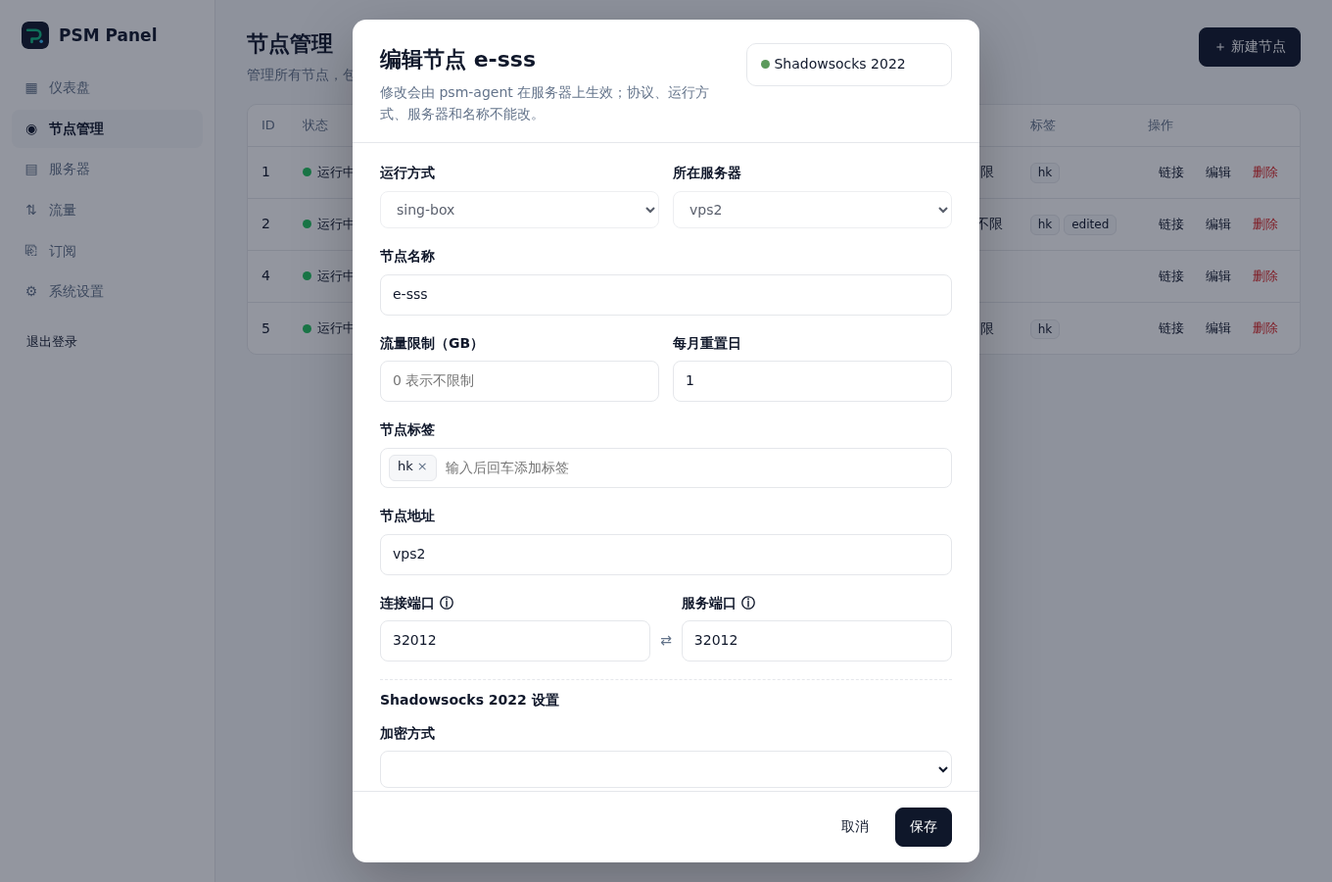
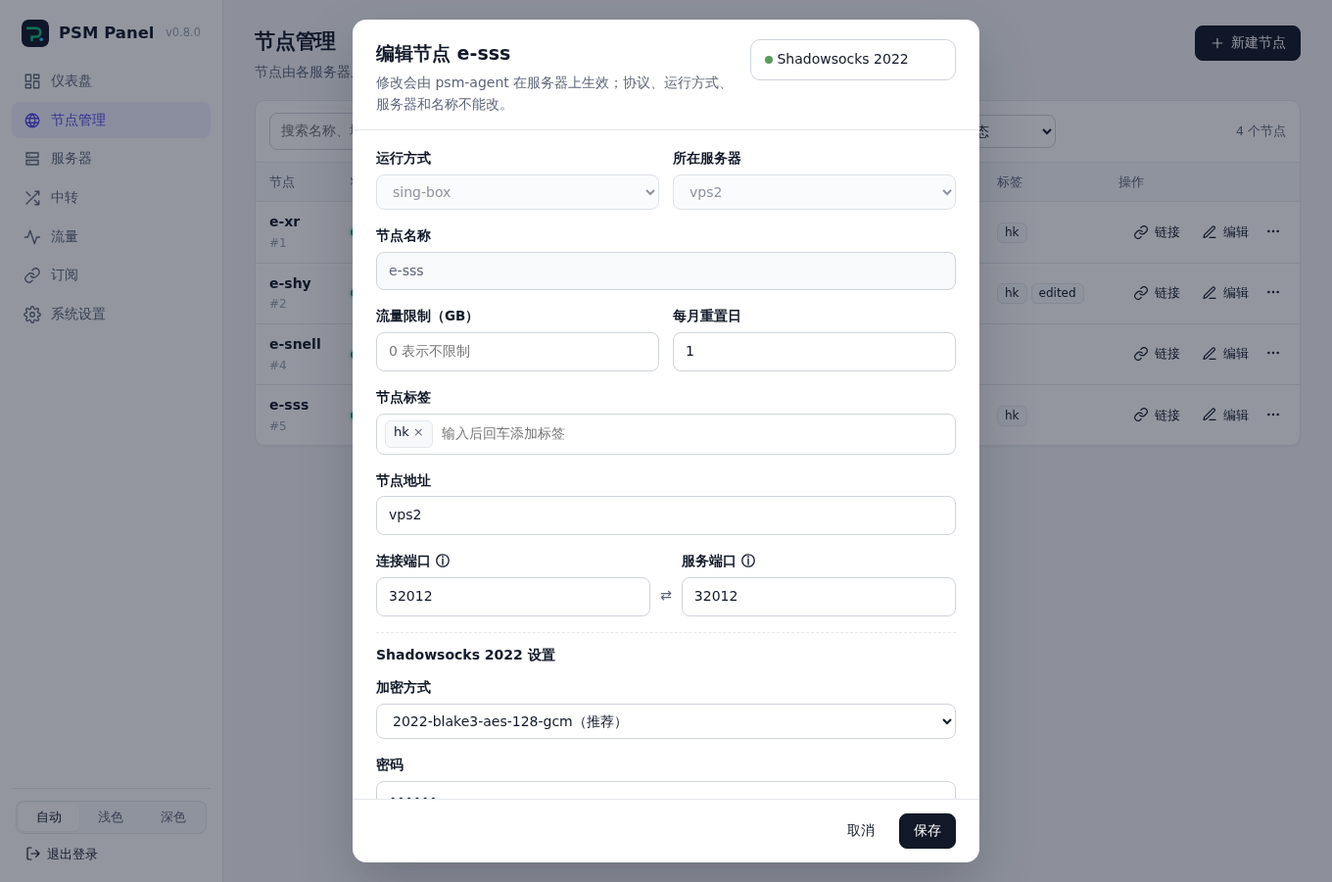
The relays chapter, and panel 0.8.0's security, settings and pages
A chapter on relays: forwards and tunnels, realm and gost, several landing
hosts and how they are shared, limits, batches, the list and its charts,
what a server leaving takes with it, and what a tunnel cannot carry.

Security and settings follow the panel: sign-out ends every session, where
the key that encrypts D1 lives and how to move it into TOKEN_KEY, https for
the panel address, masked secrets, the mapping engine's key staying in the
panel, install commands shown again instead of minted anew. The servers,
nodes, traffic, subscriptions, FAQ and update pages describe the new pages
(the row menus, search and filters, the network a server syncs from, UTC
days against server-local resets, Snell only in Surge), and the screenshots
are the new pages'.

diff --git a/docs/guide/relays.md b/docs/guide/relays.md
@@ -1,0 +1,82 @@
+# 中转
+
+![中转](/images/relays.png)
+
+中转让客户端先连一台**入口服务器**，再由它把流量送到**落地**（运行节点的机器，或任意地址）。用途：线路更好的机器做入口、多个落地共用一个入口、一个落地挂掉时自动换到另一个，或者把入口到下一跳这一段加密。
+
+## 两种方式
+
+| | 直接转发 | 隧道 |
+| --- | --- | --- |
+| 路径 | 入口 → 落地 | 入口 → **出口** → 落地 |
+| 入口到下一跳 | 原样的流量；realm 可以再包一层 TLS（只包 TCP） | gost 的 relay 协议，走 TLS 或 WebSocket，带密码；UDP 也在隧道里 |
+| 转发程序 | realm（默认）或 gost | gost |
+| 适合 | 入口到落地的线路本身没问题 | 入口到出口这一段要加密、伪装，或者要走 CDN |
+
+- **realm** 轻量；多个落地时可以轮询或按客户端 IP 分配。
+- **gost** 还能**主备切换**（总用第一个能连上的落地）和**随机**分配，每 15 秒检查一次每个落地，连不上的暂时不用；能**限速**；隧道只能用 gost。
+
+程序第一次用到时 psm-agent 会在服务器上装好。除了手填端口的 realm 一对一转发，其余的（gost、隧道、多个落地、限额、到期、自动分配端口）都要服务器上的 psm-agent 是 0.11.0 以上；旧的会提示先在服务器页升级。
+
+## 新建中转
+
+**中转** → **新建中转**：
+
+1. **入口服务器**和**名称**（字母、数字、`.` `_` `-`）。建好后这两项不能改。
+2. **转发方式**：直接转发或隧道（建好后不能改）。直接转发再选 realm 或 gost；选了主备切换、随机或限速时自动换成 gost。
+3. **隧道**：选**出口服务器**，出口地址会填上它最近连面板用的 IP（有更合适的内网地址或域名就改掉）；**隧道端口**留空自动分配；**传输**选 TLS、TLS 多路复用、WebSocket 或 WebSocket 多路复用（WebSocket 可以放在 CDN 后面），可以填伪装域名（SNI）和 WebSocket 的 Host、路径。
+4. **落地**：地址和端口，可以**再加一个落地**（最多 16 个），也可以把一串 `地址:端口` 直接粘贴进地址框。落地是面板里的服务器时在右边选上，两端就能对应起来（地址仍然以填的为准）。多个落地时选怎么分：轮询、按客户端 IP、随机、主备；gost 的健康检查在落地只开了 UDP 时要关掉。
+5. **入口**：监听端口留空就从这台服务器的**中转端口段**里挑一个没被占用的（默认 20000-60000，在服务器页 ⋯ → 备注和中转端口段里改）。基于 QUIC 的协议（Hysteria2、TUIC）要勾 **同时转发 UDP**。realm 直接转发还可以对入口到落地这一跳加 TLS。
+6. **限制**（都可以不填）：限速（Mbit/s，上下行各自，gost）、每月流量限额和重置日（按服务器的时区，0 表示不重置）、到期时间。超过限额或到期后入口拒绝新连接，列表上标**超额暂停**或**已到期**；提高限额、到重置日或改到期时间后恢复。
+
+表单边填边检查（和面板后台用的是同一套规则），提交前就能看到哪里不对。
+
+建好后：
+
+- 直接转发：几秒内在入口服务器上生效，状态从"下发中"变成"运行中"。
+- 隧道：先在**出口**上建好，面板拿到出口的证书后再在入口上建，**入口只认这一张证书**（证书指纹钉住），不需要域名，也不怕中间人。状态先显示"等待出口"。
+- 服务器还没接入时，对话框给出安装命令，接入后自动生效。
+
+## 批量添加
+
+**批量添加** 用同样的设置一次建多条，每行一条：
+
+```
+# 名称 端口(或 auto) 落地地址:端口[,落地地址:端口…]
+hk-jp  20001 203.0.113.9:443
+hk-us  auto  198.51.100.7:8443,198.51.100.8:8443
+```
+
+最多 100 行，`#` 之后是注释。每一行都检查通过才会创建；有问题的行按行号列出，一条都不建。
+
+## 列表
+
+每条中转一行：
+
+| 列 | 说明 |
+| --- | --- |
+| 中转 | 名称、方式（转发 / 隧道）、转发程序 |
+| 状态 | 入口的状态；隧道还有**出口**的状态。失败时列出原因 |
+| 入口 | 入口服务器和监听端口（**自动** 表示端口是分配的）、TCP / UDP、限速 |
+| 落地 | 直接转发：落地地址（多个时显示个数和分配方式）；隧道：出口服务器、隧道端口和传输，再到落地 |
+| 延迟 / 丢包 | 入口到下一跳最近一次的往返延迟和丢包（颜色越红越差）；隧道还有出口到落地这一跳 |
+| 流量 | 这条中转搬运的流量；设了限额时还有本月用量条；到期时间 |
+
+点一行展开：延迟 / 抖动、丢包和流量曲线（1 小时、6 小时、24 小时、7 天），每个落地的健康状况，以及这条中转的全部设置。psm-agent 每分钟测一次，面板保留 7 天；曲线不论时间范围都画成约 240 个点。延迟用 TCP 连接测量而不是 ping（ICMP 在这类网络上常被过滤，会报出不存在的丢包），落地完全不通时显示 100% 丢包而不是编一个延迟。
+
+搜索框按名称、端口、落地地址过滤；还可以按服务器（入口或出口是它都算）、方式和状态（"有问题"＝失败、暂停或有丢包）筛选。
+
+## 修改和删除
+
+**编辑** 可以改端口、落地、分配方式、健康检查、隧道的出口地址 / 端口 / 传输 / SNI / WebSocket、UDP、TLS、限速、限额、重置日和到期时间；直接转发还可以在 realm 和 gost 之间切换（端口不变）。名称、入口、出口和转发方式不能改——要改就删掉重建。隧道改了出口那边的设置时，面板先改出口，再改入口。
+
+**删除**（在 ⋯ 里）会让服务器上的规则一起删除，隧道则两端都删；只收回面板自己在防火墙上开的端口。服务器离线时会停在"删除中"，再点一次 **强制移除** 只从面板抹掉。
+
+从面板移除一台服务器时，它上面的中转一起删除；它是某条隧道的**出口**时，另一端（入口）上的规则也会删除，不会留下一个转发到空处的入口。
+
+## 注意
+
+- **隧道只承载"客户端先说话"的协议**。所有代理协议都是这样（VLESS、SS2022、Trojan、Hysteria2……），可以放心用；SSH、SMTP、FTP、VNC 这类连上后由服务器先发数据的协议过不了隧道（会一直等），要用直接转发。
+- **出口不是开放代理**：它只转发到自己的落地，入口想让它连别处也不行；入口和出口之间还有一个面板生成的密码。
+- 云服务商的**安全组**要自己放行入口的监听端口（隧道还有出口的隧道端口）；服务器上的防火墙 PSM 会自动放行。
+- 在服务器上也能看和改：`psm relay list`、`psm relay show <名称>`、`psm relay probe`，见 [PSM 文档 · 中转](https://psm-docs.pages.dev/features/relay)。在服务器上改过的规则，下次在面板上编辑时会被面板的设置覆盖。

diff --git a/docs/guide/security.md b/docs/guide/security.md
@@ -2,21 +2,32 @@
 
 ## 登录
 
-- 管理员密码来自 Worker 机密 `ADMIN_PASSWORD`。面板第一次读到它时，会把**加盐的 PBKDF2 哈希**存进 D1——不是明文，也不是能离线快速爆破的单轮摘要——这样重新部署丢了机密也不会被锁在门外。机密还在时以机密为准（恒定时间比较摘要），机密没了则用库里的记录校验。
-- 登录后得到一个 HMAC 签名的会话 Cookie：HttpOnly、SameSite=Strict，HTTPS 下带 Secure，7 天有效。签名密钥由 `TOKEN_KEY` 和当前的密码记录派生，不依赖明文密码（否则机密丢失后就无从派生）；修改密码即让所有会话失效。
-- 同一地址 15 分钟内失败 10 次后，暂停这个地址的登录。
+- 管理员密码来自 Worker 机密 `ADMIN_PASSWORD`（至少 8 位；短了不生效，登录页会直说）。面板第一次读到它时，会把**加盐的 PBKDF2 哈希**存进 D1——不是明文，也不是能离线快速爆破的单轮摘要——这样重新部署丢了机密也不会被锁在门外。机密还在时以机密为准（恒定时间比较摘要），机密没了则用库里的记录校验。
+- 登录后得到一个签名的会话 Cookie：HttpOnly、SameSite=Strict，HTTPS 下带 Secure，7 天有效。签名密钥由 `TOKEN_KEY` 经 HKDF 派生出单独的一把（加密数据的密钥从不直接用来签名），并以当前的密码记录为盐：修改密码即让所有会话失效。
+- **退出登录会让所有设备上的登录一起失效**：Cookie 里带着一个会话代数，退出时它加一，之前签发的 Cookie（包括被人复制走的）都不再有效。
+- 同一地址 15 分钟内失败 10 次后，暂停这个地址的登录；IPv6 按 /64 计（一台机器通常有整个 /64，换地址绕不过去）。
+- 会改动数据的请求必须来自面板自己的页面（浏览器的 `Sec-Fetch-Site` / `Origin`），别的网站借你的登录状态发请求会被拒绝；SameSite=Strict 之外的第二道锁。
 - 需要更强的保护时，可以在面板前面加 Cloudflare Access，放行 `/api/agent/*` 和 `/sub/*`（服务器和订阅客户端不会登录）。
+
+## 页面
+
+- 页面带 Content-Security-Policy（只运行面板自己的脚本，不允许被嵌进别的网站）、`X-Content-Type-Options: nosniff`、`Referrer-Policy: no-referrer`；接口的回答一律不缓存。
+- 订阅地址、节点链接、安装命令里的令牌默认遮住中间一段，点 👁 才显示，复制不需要先显示——截图、共享屏幕时不会顺带泄露。
 
 ## 服务器
 
-- psm-agent 不监听任何端口，只主动用 HTTPS 连接面板。
-- 安装命令里的令牌一次性、24 小时有效；接入后换成这台服务器自己的 agent 令牌，面板只存它的 SHA-256。
-- psm-agent 只执行白名单校验过的 `psm` 命令：内核、协议、节点名、端口、密钥等逐项校验，参数以数组传递，从不经过 shell。面板无法让服务器执行 PSM 命令行做不到的事。
-- psm-agent 下载时用发布页的 SHA256SUMS 校验。
+- psm-agent 不监听任何端口，只主动用 HTTPS 连接面板。面板地址必须是 `https://`（本机和内网地址的测试面板除外）。
+- 安装命令里的令牌一次性、24 小时有效；同一台服务器再看安装命令还是同一条（加密保存，D1 里没有明文），不会越点越多；怀疑泄露时在服务器页 **重新生成**，旧的立即失效。接入后换成这台服务器自己的 agent 令牌，面板只存它的 SHA-256。
+- psm-agent 只执行白名单校验过的 `psm` 命令：内核、协议、节点名、端口、密钥、中转的地址和端口等逐项校验，参数以数组传递，从不经过 shell。面板无法让服务器执行 PSM 命令行做不到的事。
+- 同一个 agent 令牌一分钟内同步远超 psm-agent 正常频率时，面板让它放慢（429）。
+- psm-agent 下载时用发布页的 SHA256SUMS 校验（校验的是完整性：发布页本身被篡改防不住，没有另外的签名）。
+- 自动选择 REALITY 伪装目标时，**面板自己查网络测绘引擎**，API Key 不会发给服务器；服务器只拿到候选网站去做 TLS 检查。
 
 ## 数据
 
-- 节点的协议参数（密码、密钥）、客户端链接、下发的任务、订阅令牌、服务器的诊断报告，在 D1 里都用 AES-GCM 加密保存。
+- 节点的协议参数（密码、密钥）、客户端链接、下发的任务、订阅令牌、安装命令的令牌、中转隧道的密码、服务器的诊断报告，在 D1 里都用 AES-GCM 加密保存。
 - agent 令牌、加入令牌、订阅令牌的查找都用哈希；数据库里没有明文令牌。
+- **加密密钥放在哪**：一键部署时面板自己生成密钥并存在 D1 里——和它加密的数据在一起，拿到数据库导出就能解开。系统设置里能看到密钥的位置，并按步骤把它挪进 Cloudflare 机密 `TOKEN_KEY`，再删掉 D1 里的副本，见 [系统设置 · 数据加密密钥](./settings#数据加密密钥)。
+- 旧数据会自动清理：完成的任务保留 14 天，中转测量 7 天，每日流量 400 天，操作记录 180 天。
 - Worker 默认开启 Workers Logs（Cloudflare 控制台里只有你自己能看），请求日志会记下访问的地址，订阅地址里的令牌也在其中。不希望这样时，把 `wrangler.jsonc` 里的 `observability.enabled` 改成 `false`。订阅地址泄露时在面板上重置即可。
-- 仓库里没有任何密钥；密钥只在你自己 Cloudflare 账号的 Worker 机密里。
+- 仓库里没有任何密钥；密钥只在你自己 Cloudflare 账号的 Worker 机密里（或按上面说的，暂时在 D1 里）。

diff --git a/docs/guide/settings.md b/docs/guide/settings.md
@@ -4,19 +4,39 @@
 
 ## 面板地址
 
-服务器安装命令和订阅地址里写的面板地址。绑定了自己的域名后填在这里（见 [绑定自己的域名](./domain)）；留空则使用当前访问面板的地址。
+服务器安装命令和订阅地址里写的面板地址。绑定了自己的域名后填在这里（见 [绑定自己的域名](./domain)）；留空则使用当前访问面板的地址。必须是 `https://`——节点的密钥和 agent 的令牌经它传输；`http://` 只接受本机或内网地址（测试用的面板）。
+
+## 数据加密密钥
+
+节点的密码、链接、订阅地址等在 D1 里用这把密钥加密。它可能在三个地方，页面上标着：
+
+| 标记 | 含义 |
+| --- | --- |
+| 只在机密里 | 密钥是 Cloudflare 机密 `TOKEN_KEY`，数据库里没有。应该是这样。 |
+| 保存在数据库里 | 一键部署时面板自己生成、存进了 D1：和它加密的数据放在一起，谁拿到数据库导出谁就能解开。建议按下面的步骤挪走。 |
+| 机密里也有了 | `TOKEN_KEY` 已经和数据库里的一致，可以删掉数据库里的副本。 |
+| 机密和数据不一致 | `TOKEN_KEY` 不是写入数据时用的那把：之前保存的节点、订阅解不开。把它改回数据库里的这把，或者删掉这个机密。 |
+
+把密钥挪进机密：
+
+1. 在这里输入管理员密码，点 **查看密钥**（这次查看会记进操作记录）。
+2. Cloudflare 控制台 → 这个 Worker → 设置 → 变量和机密 → 添加**机密** `TOKEN_KEY`，值就是这把密钥，一字不差。
+3. 部署生效后回到这里，标记变成"机密里也有了"，点 **删除数据库里的副本**（要输入 `TOKEN_KEY` 确认）。
+
+之后这个机密**不能删也不能改**：没有它，面板里的节点、订阅都读不出来。
 
 ## 网络测绘引擎
 
-新建 REALITY 节点时"自动选择伪装目标"用的引擎和 API Key：Netlas、Quake（360）、ZoomEye 或 FOFA。Key 加密存放，页面上不再显示；只在查询时随任务发给那台服务器，服务器用完即弃，不写入磁盘。Netlas 有免费额度：在 app.netlas.io 注册后，从个人资料页复制 API Key。见 [节点 · 自动选择伪装目标](./nodes#自动选择伪装目标reality)。
+新建 REALITY 节点时"自动选择伪装目标"用的引擎和 API Key：Netlas、Quake（360）、ZoomEye 或 FOFA。Key 加密存放，页面上不再显示；**面板自己用它查询，不会发给服务器**——服务器只收到查到的候选网站，去做 TLS 握手检查。Netlas 有免费额度：在 app.netlas.io 注册后，从个人资料页复制 API Key。见 [节点 · 自动选择伪装目标](./nodes#自动选择伪装目标reality)。
+
+## 登录
+
+登录保持 7 天。**退出登录**（左下角，或这里的 **退出所有设备**）会让所有设备上的登录一起失效；修改 `ADMIN_PASSWORD` 也一样。管理员密码在 Cloudflare 控制台修改 Worker **机密** `ADMIN_PASSWORD`（不要用变量，变量每次部署都会被清掉）。面板第一次读到机密时会把它的加盐哈希存进 D1，所以重新部署即使机密没了也仍能登录。
 
 ## 运行信息
 
-- **面板版本**
-- **服务器同步间隔**（Worker 变量 `SYNC_INTERVAL`）
-- **数据加密密钥**：来自 Worker 机密 `TOKEN_KEY`，或者面板自动生成（存在 D1）
-- **管理员密码**：在 Cloudflare 控制台修改 Worker **机密** `ADMIN_PASSWORD`（不要用变量，变量每次部署都会被清掉），所有已登录的会话随即失效。面板第一次读到机密时会把它的加盐哈希存进 D1，所以重新部署即使机密没了也仍能登录
+面板版本、它期望的 psm-agent 版本、服务器同步间隔（Worker 变量 `SYNC_INTERVAL`）和源代码地址。左下角可以切换浅色、深色或跟随系统的外观。
 
 ## 操作记录
 
-最近 100 条操作：登录（包括失败的尝试和来源地址）、添加 / 移除 / 接入服务器、诊断、新建 / 修改 / 删除节点、重置流量、订阅的增删改和重置、设置修改。
+按时间倒序，每次 30 条，**加载更多** 往前翻；可以按登录、服务器、节点、中转、订阅、设置、模板筛选。记录的有：登录（包括失败的尝试和来源地址）和退出、服务器的添加 / 移除 / 接入 / 诊断 / 升级、重新生成安装命令、节点和中转的增删改、重置流量、订阅和模板的增删改、设置修改、查看加密密钥。操作记录保留 180 天。

diff --git a/docs/guide/nodes.md b/docs/guide/nodes.md
@@ -4,7 +4,7 @@
 
 ## 新建节点
 
-**节点管理** → **＋ 新建节点**。对话框从右上角选协议开始，然后是运行方式、所在服务器、节点名称、流量限制、每月重置日、标签、节点地址、连接端口 ⇄ 服务端口，最后是这个协议自己的设置。
+**节点管理** → **新建节点**。对话框从右上角选协议开始，然后是运行方式、所在服务器、节点名称、流量限制、每月重置日、标签、节点地址、连接端口 ⇄ 服务端口，最后是这个协议自己的设置。
 
 - **节点地址**：客户端连接用的域名或 IP，会写进客户端链接和订阅。
 - **服务端口** 是节点在服务器上监听的端口；**连接端口** 是客户端连接的端口，两者通常相同（端口转发时才不同）。
@@ -57,7 +57,7 @@ Xray、sing-box、mihomo 运行的节点可以在"出口分流"里选：
 
 ## 自动选择伪装目标（REALITY）
 
-先在 **系统设置** 里填好网络测绘引擎（Netlas、Quake、ZoomEye 或 FOFA）的 API Key。新建 REALITY 节点、选好已接入的服务器后，点 **自动选择伪装目标**：那台服务器用引擎查同一个 ASN（同一张网）里有证书的网站，逐个做 TLS 握手检查（TLS 1.3、X25519、h2），列出可用的伪装域名、目标和延迟，点 **使用** 填入。API Key 只在查询时发给那台服务器，不保存在服务器上。
+先在 **系统设置** 里填好网络测绘引擎（Netlas、Quake、ZoomEye 或 FOFA）的 API Key。新建 REALITY 节点、选好已接入的服务器后，点 **自动选择伪装目标**：面板用引擎查那台服务器所在 ASN（同一张网，Cloudflare 从它的同步请求里知道）里有证书的网站，再让服务器逐个做 TLS 握手检查（TLS 1.3、X25519、h2），列出可用的伪装域名、目标和延迟，点 **使用** 填入。**API Key 不离开面板**，服务器只拿到候选网站。需要服务器的 psm-agent 是 0.11.0 以上。
 
 ## 防火墙
 
@@ -65,9 +65,13 @@ Xray、sing-box、mihomo 运行的节点可以在"出口分流"里选：
 
 云服务商的**安全组**（阿里云、腾讯云、AWS、Oracle 等在控制台里设置的那层）在服务器外面，PSM 改不了：用了安全组的话，要在控制台放行节点端口。
 
+## 列表
+
+节点列表可以按名称、地址、端口、标签搜索，按服务器、协议、状态（包括"超额暂停"）筛选，节点多时分页。每行有 **链接**、**编辑** 和 ⋯ 菜单（重置流量、删除）。状态是"失败"时原因写在状态下面。
+
 ## 修改节点
 
-在节点列表点 **编辑**。可以改地址、端口、流量上限、重置日、标签和协议设置；协议、运行方式、服务器和名称不能改（要改就新建一个）。
+在节点列表点 **编辑**（会先读出这个节点的设置）。可以改地址、端口、流量上限、重置日、标签和协议设置；协议、运行方式、服务器和名称不能改（要改就新建一个）。
 
 ![编辑节点](/images/edit.png)
 
@@ -77,10 +81,10 @@ Xray、sing-box、mihomo 运行的节点可以在"出口分流"里选：
 
 ## 删除节点
 
-点 **删除**。运行中的节点先由 psm-agent 从服务器上删除，再从面板上消失；独立安装的节点会卸载 snell-server / ss-rust。
+⋯ → **删除**，确认后执行。运行中的节点先由 psm-agent 从服务器上删除，再从面板上消失；独立安装的节点会卸载 snell-server / ss-rust。
 
 删除要交给那台服务器执行，所以服务器离线时节点会停在**删除中**，等它回来就自动完成。如果这台机器再也回不来了，按钮会变成 **强制移除**，再点一次就把这条记录从面板上抹掉——这只是面板侧的清理，机器如果还在，上面的节点要自己用 `psm node delete` 处理。
 
 ## 链接
 
-点 **链接** 复制节点的客户端链接（Snell 是 Surge 配置行）。要把多个节点给客户端，用 [订阅](./subscriptions)。
+点 **链接** 打开节点的客户端链接（Snell 是 Surge 配置行）。链接里有节点的密码，所以中间一段默认遮住：点 👁 显示，点复制按钮直接复制（不必先显示）。要把多个节点给客户端，用 [订阅](./subscriptions)。

diff --git a/docs/guide/subscriptions.md b/docs/guide/subscriptions.md
@@ -27,7 +27,7 @@
 | Quantumult X | `?format=quanx` | Quantumult X |
 | Loon | `?format=loon` | Loon |
 
-除了"通用"，其余格式都是一份完整的客户端配置，由**订阅模板**加上节点生成。每个客户端只会拿到它支持的协议：Surge 没有 VLESS；Quantumult X 没有 Hysteria2、TUIC、Snell；Loon 没有 TUIC、Snell；Stash 没有 AnyTLS。
+除了"通用"，其余格式都是一份完整的客户端配置，由**订阅模板**加上节点生成。每个客户端只会拿到它支持的协议：Surge 没有 VLESS；Quantumult X 没有 Hysteria2、TUIC、Snell；Loon 没有 TUIC、Snell；Stash 没有 AnyTLS。**Snell 节点只出现在 Surge 订阅里**：它没有分享链接，其他客户端也不支持它，所以通用、Clash、sing-box 等格式里看不到 Snell 是正常的。
 
 - TLS 协议的节点（Hysteria2、TUIC、AnyTLS、VLESS + TLS、Trojan、VMess）按服务器导出的完整参数写出。自签证书的节点带着证书指纹，客户端校验这一张证书：通用格式的链接里是 `pcs` / `pinSHA256`（v2rayN 等 Xray 内核的客户端靠它连接自签节点），Clash 里是 `fingerprint`，sing-box 里是 `certificate_public_key_sha256`，Stash 是 `server-cert-fingerprint`，Surge 是 `server-cert-fingerprint-sha256`，Quantumult X 和 Loon 是 `tls-cert-sha256`。
 - Clash / mihomo 的内置模板不把节点写进配置，而是用 proxy-provider 引用这个订阅的 `?format=provider`——面板把每个节点写成完整的 mihomo 节点（不是分享链接：mihomo 从链接导入时读不到自签 VMess、TUIC 的证书，也不认 HTTPUpgrade）。节点只有这一个来源，面板里增删节点后客户端最多一小时自己同步，不必重新导入订阅。代价是首次启动时如果拉不到订阅（断网、面板不可达），配置里就没有节点。
@@ -50,6 +50,10 @@
 删除模板后，用它的订阅自动改回内置模板。
 - 响应带 `subscription-userinfo`，客户端能显示已用流量（所有节点都设了上限时也显示总量）。
 
+## 地址和令牌
+
+订阅地址里的令牌就是访问它的钥匙，所以页面上默认遮住中间一段：点 👁 显示，点复制按钮直接复制（不必先显示）。卡片右上角显示客户端最近一次来更新是什么时候。
+
 ## 重置和删除
 
-地址泄露时点 **重置地址**：旧地址立即失效，客户端换成新地址即可。**删除** 后地址同样失效。
+地址泄露时点 **重置地址**：旧地址立即失效，客户端换成新地址即可。**删除** 后地址同样失效。两个操作都会先确认。

diff --git a/docs/guide/faq.md b/docs/guide/faq.md
@@ -35,6 +35,26 @@
 
 会。删除节点时服务器上的节点一起删除，删除中转时 realm 的转发规则一起删除；移除在线的服务器时，psm-agent 删除所有由面板建的节点、独立安装的程序和中转规则，然后卸载自己。PSM 本身、内核和在服务器命令行里建的节点保留。离线的服务器只能从面板移除；节点或中转如果一直停在"删除中"，再点一次按钮可以强制从面板移除。见 [服务器和诊断](./servers#移除服务器)。
 
+## 退出登录后，其他设备也要重新登录？
+
+是的：退出登录会让所有设备上的登录一起失效（防止被复制走的 Cookie 继续有效）。在其他设备上重新输入密码即可。
+
+## 隧道和直接转发选哪个？
+
+入口到落地的线路本身没问题、只是想换个入口，用**直接转发**（realm 最轻）。入口到下一跳这一段需要加密、伪装，或者要经过 CDN，用**隧道**。多个落地要主备切换、要限速时，用 gost。见 [中转](./relays)。
+
+## 隧道建好了，SSH 连不过去
+
+隧道只承载"客户端先说话"的协议（所有代理协议都是）；SSH、SMTP、FTP 这类服务器先说话的协议要用直接转发。
+
+## 中转一直是"等待出口"
+
+隧道要先在出口服务器上建好，入口才会建。看出口服务器是否在线、中转行里"出口"的状态和原因；出口服务器还没接入时，先执行它的安装命令。
+
+## 提示 psm-agent 太旧，要先升级
+
+中转的新功能（gost、隧道、多个落地、限额、到期、自动端口）和自动选择伪装目标要服务器上的 psm-agent 0.11.0 以上。在服务器页 ⋯ → **升级 psm-agent**。
+
 ## 节点一直是"下发中"
 
 服务器离线时任务会等它回来再执行。看服务器页的状态；离线的话参考 [接入服务器](./join#服务器显示离线)。
@@ -54,3 +74,7 @@
 ## 改了面板地址后服务器离线了
 
 服务器记着接入时的地址。旧地址不能访问时，为服务器生成新的安装命令并执行一次。
+
+## 面板地址存不进去
+
+面板地址要用 `https://`：节点的密钥和 agent 的令牌经它传输。`http://` 只接受本机或内网地址（测试用的面板）。

diff --git a/docs/guide/traffic.md b/docs/guide/traffic.md
@@ -5,18 +5,23 @@
 每台服务器统计自己节点的流量（Xray 节点用 Xray 的统计接口，其余节点用 iptables 计数），psm-agent 每 10 分钟把数字发给面板。**流量** 页显示：
 
 - 本月总流量、今日流量、超额暂停的节点数；
-- 最近 30 天每天的流量；
-- 每个节点本月已用、上限、用量条、重置日和状态。
+- 最近 30 天每天的流量（鼠标移到柱子上看当天的数字）；
+- 每个节点本月已用、上限、用量条、重置日、状态和多久以前更新的；可以搜索，点表头排序。
 
 点 **立即刷新** 让所有服务器马上发一次（几秒后更新）。
 
+::: tip 日期和时区
+每天的统计按 **UTC 日期**（北京时间早上 8 点换日）；每月重置按**各服务器自己的时区**，在它的重置日零点。所以"今日流量"和服务器本地的"今天"可能差几个小时。
+:::
+
 ## 流量上限
 
-新建或编辑节点时填 **流量限制（GB）** 和 **每月重置日**（1–28）：
+新建或编辑节点时填 **流量限制（GB，最多 1000000）** 和 **每月重置日**（1–28）：
 
 - 0 表示不限制，只统计。
 - 用量达到上限后，服务器自动暂停这个节点（拒绝新连接），面板上显示"超额暂停"，订阅里也不再出现它。
-- 到每月重置日自动清零并恢复；也可以在流量页点 **重置**，立即清零并恢复。
+- 到每月重置日自动清零并恢复；也可以在流量页点 **重置**（或节点管理 ⋯ → 重置流量），立即清零并恢复。
+- 服务器没能设好上限或清零时（比如防火墙规则加不上），节点上会显示原因，不会装作已经生效。
 - 提高上限（或改成 0）也会解除暂停。
 
 暂停和清零由服务器自己执行（PSM 的流量检查每分钟运行一次），面板离线也照常生效。

diff --git a/docs/guide/update.md b/docs/guide/update.md
@@ -16,6 +16,12 @@
 
 推送后 Cloudflare 自动部署。数据库结构有变化时，新版面板第一次运行时自己升级，不需要执行迁移命令；已有的数据保留。
 
+::: tip 升到 0.8.0 之后
+- 所有人要重新登录一次（会话 Cookie 换了格式）。
+- 中转的新功能和自动选择伪装目标要 psm-agent 0.11.0：服务器页上 Agent 标着"可升级"的，点一下即可。
+- 看一眼 **系统设置 · 数据加密密钥**：一键部署的面板密钥还在数据库里，建议按页面上的步骤挪进 Cloudflare 机密，见 [系统设置](./settings#数据加密密钥)。
+:::
+
 ## 更新服务器上的 PSM 和 psm-agent
 
 - PSM：在服务器页点 **更新 PSM**（psm-agent 已是最新版时显示），或照常在服务器上更新：`psm` 菜单里的更新，或再执行一次 `bash <(curl -fsSL https://psm.jinqians.com)`。面板看到服务器报告新的 PSM 版本后，会重新取一次节点的链接和订阅内容，见 [服务器和诊断 · 更新 PSM](./servers#更新-psm)。

diff --git a/docs/guide/what-is.md b/docs/guide/what-is.md
@@ -1,11 +1,15 @@
 # PSM Panel 是什么
 
+![仪表盘](/images/dashboard.png)
+
 PSM Panel 是 [PSM（Proxy Stack Manager）](https://github.com/jinqians/proxy-stack) 的网页管理面板。PSM 本身是在每台 VPS 上用命令行菜单管理节点的脚本；面板把多台 VPS 放到一个网页里：
 
 - 在网页上新建、修改、删除任意一台服务器上的节点；
+- 建中转：直接转发（realm / gost）或经另一台服务器的加密隧道，多个落地负载均衡或故障切换，限速、限额和到期；
 - 看每台服务器是否在线、装了哪些内核、`psm doctor` 的检查结果；
 - 看每个节点的流量，给节点设流量上限；
-- 把所有服务器的节点汇总成一个订阅地址。
+- 把所有服务器的节点汇总成一个订阅地址；
+- 仪表盘上一眼看到在线的服务器、失败或暂停的节点和中转、最近的操作；深色模式，手机上也能用。
 
 ## 工作方式
 

diff --git a/docs/index.md b/docs/index.md
@@ -24,6 +24,8 @@ features:
     details: 没装过 PSM 的服务器也行：先装 PSM，再接入面板；节点用到的内核自动安装。psm-agent 只主动连面板，不开任何端口。
   - title: 节点
     details: PSM 支持的全部协议，Snell 和 SS2022 可用独立的 snell-server（v4/v5/v6）和 ss-rust；新建、修改、删除都在面板上。
+  - title: 中转
+    details: 直接转发或加密隧道（入口 → 出口 → 落地，出口证书钉住）；多个落地轮询、主备切换带健康检查；限速、月流量限额、到期时间，批量添加。
   - title: 流量和限额
     details: 每个节点本月用量和每日图表；设了上限的节点超额自动暂停，到重置日或手动重置后恢复。
   - title: 汇总订阅
